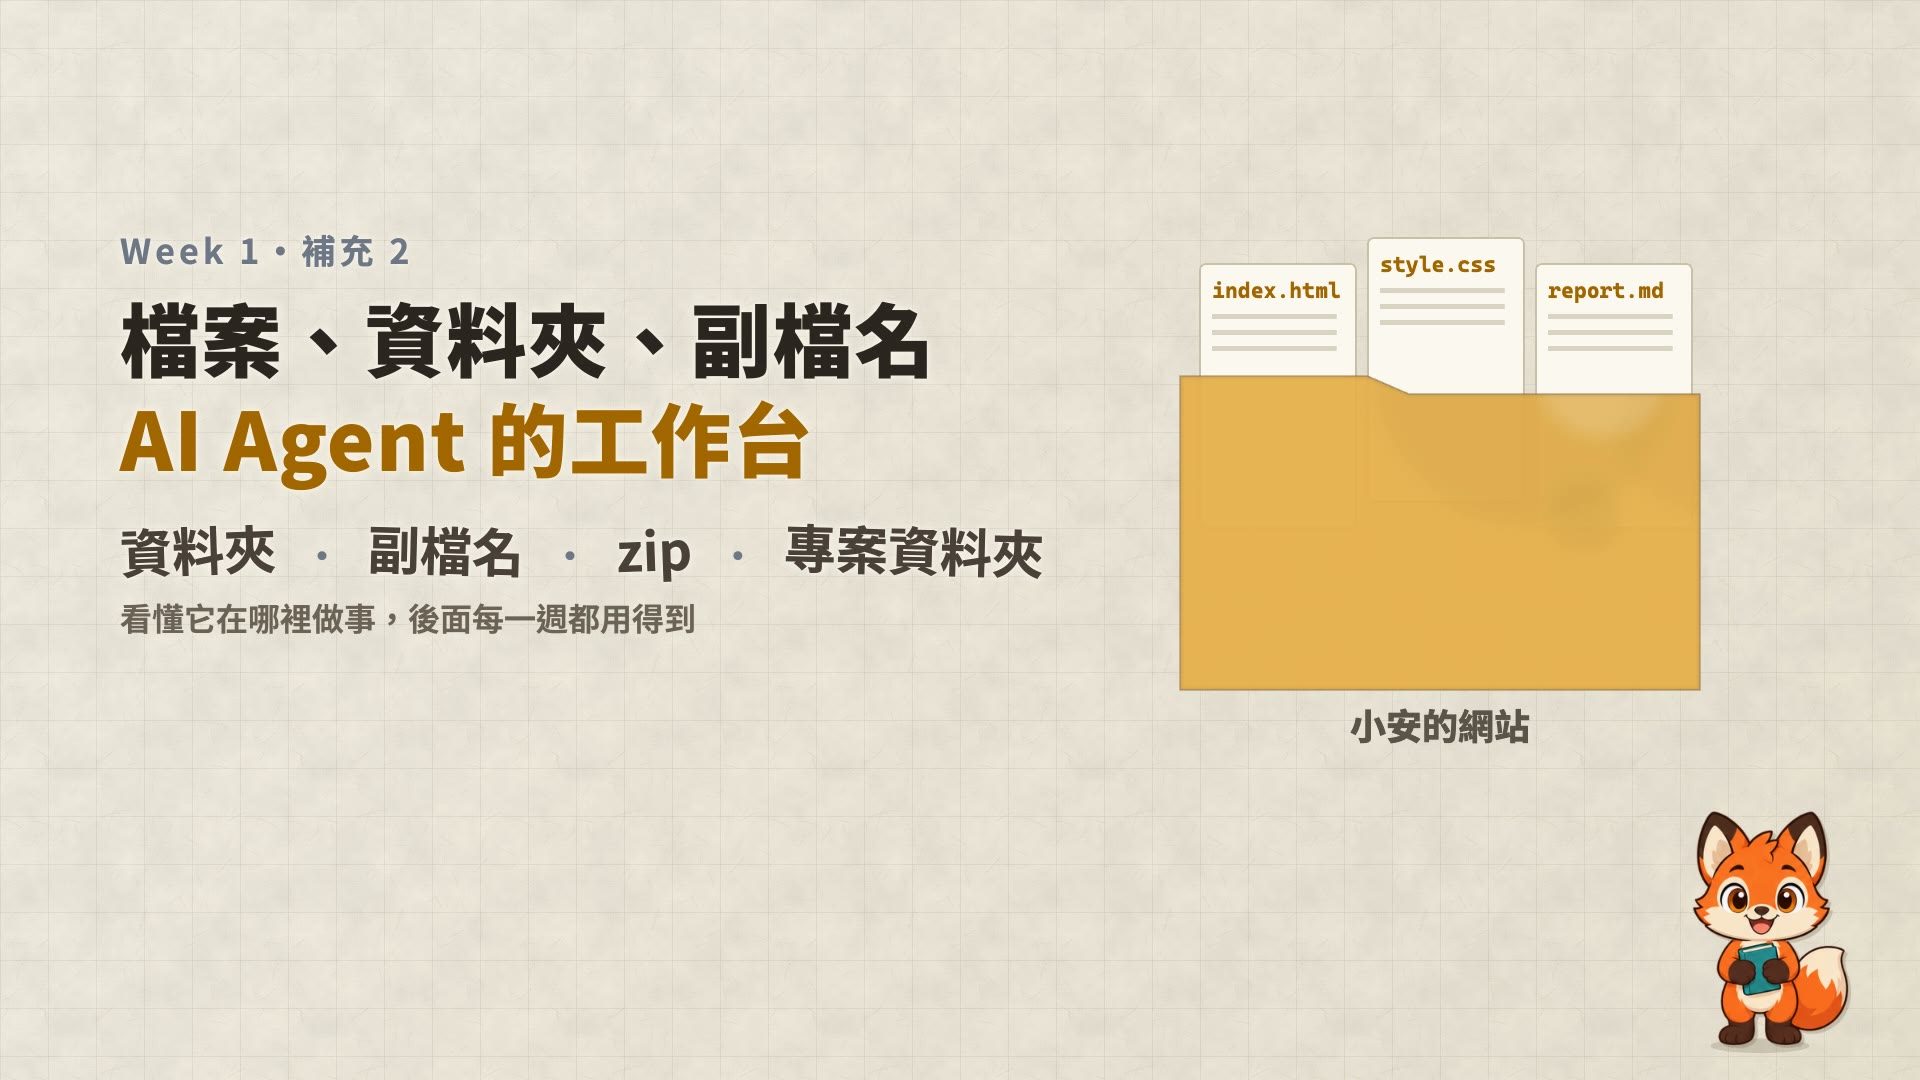
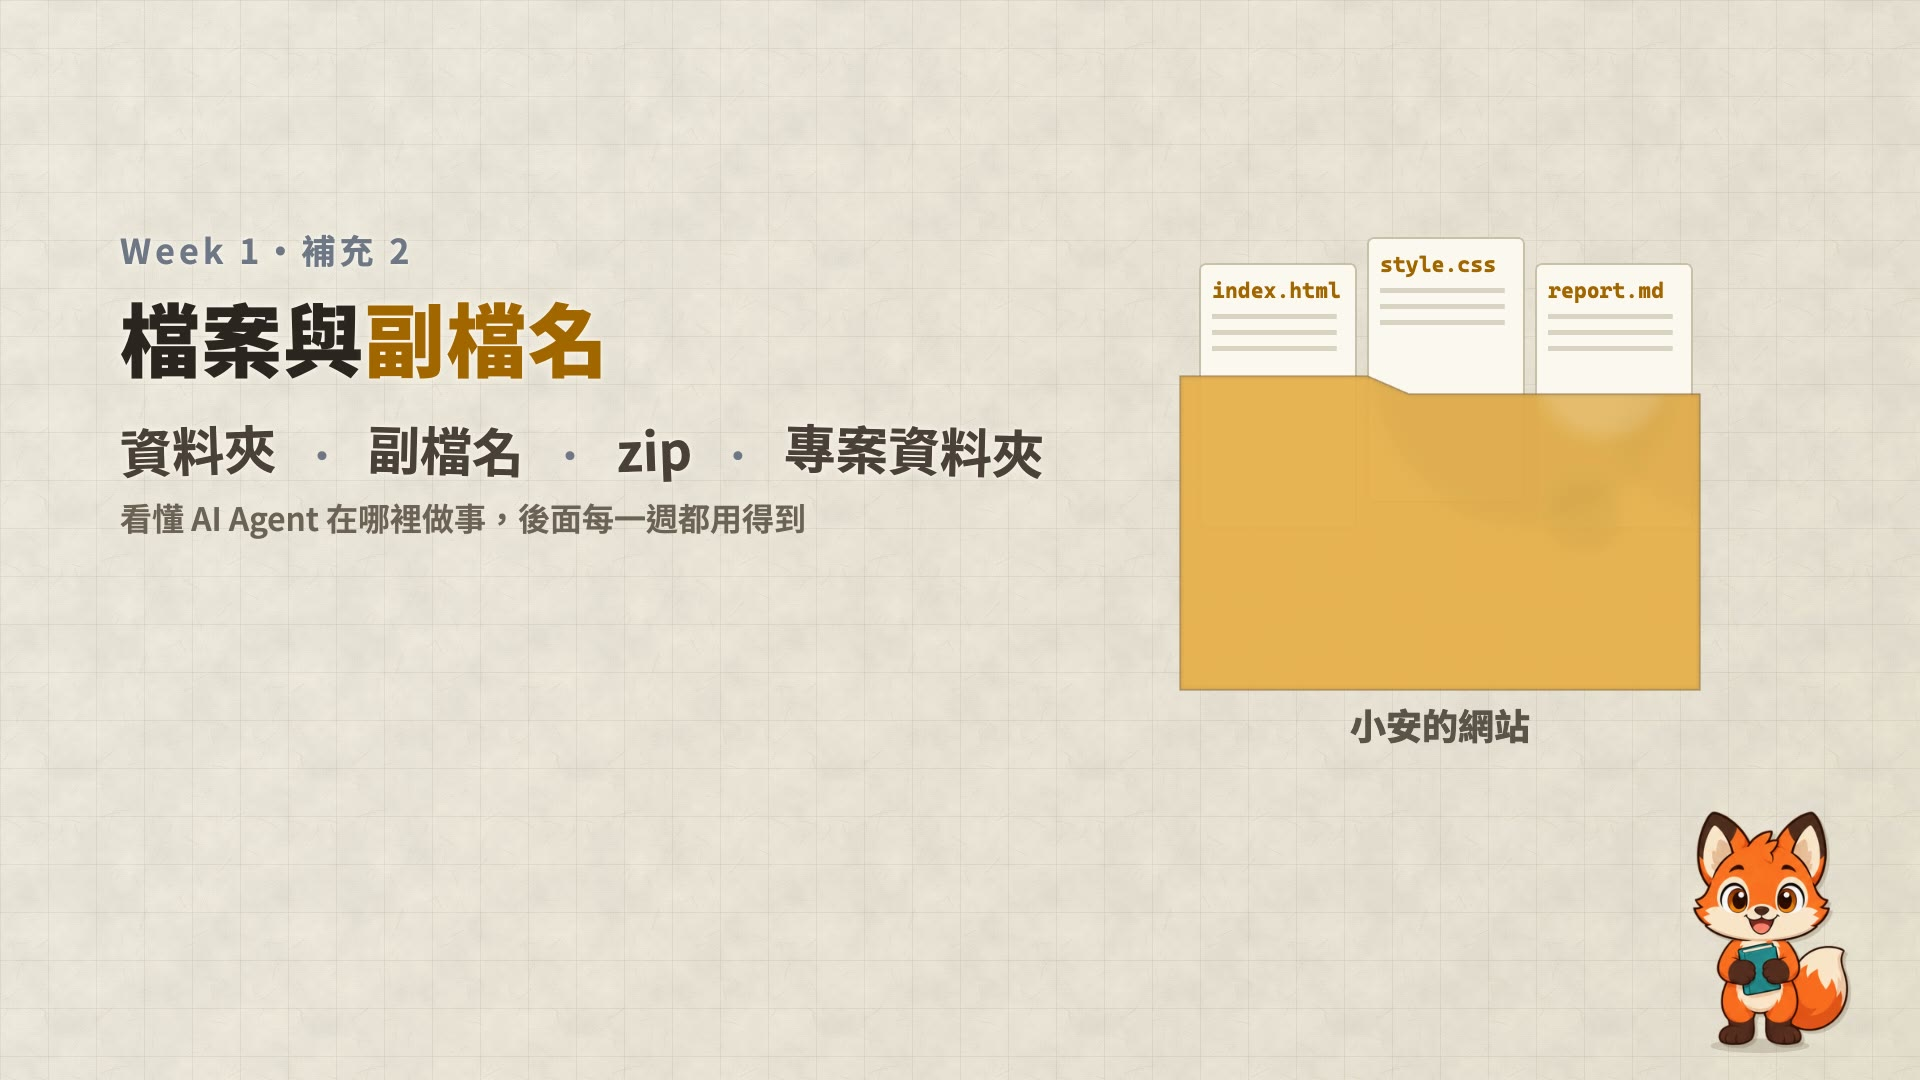
Week 1 supplements, round 2: clearer pencil lines, no Chinese-interface step, "檔案與副檔名"
Teacher's review: every pencil loop, line and arrow is thicker, and the ones
on dark VS Code screens use the bright red and amber (the 2:02 arrow was
graphite on a dark window). Supplement 1 no longer covers switching VS Code
to Chinese (now 2:05). Supplement 2 is renamed 「檔案與副檔名」 and its
0:15 arrow is red. Week 1: 3 videos + 2 extras, 9 min 49 s.

Changed region(s): [[0.0625, 0.275, 0.5625, 0.6111]]

diff --git a/weeks/week01/index.html b/weeks/week01/index.html
@@ -240,8 +240,8 @@
         <li><button type="button" data-t="36"><span class="k">00:36</span><span class="t" data-i18n data-zh-hans="Windows：用 Microsoft Store 装" data-en="Windows: install it through the Microsoft Store" data-vi="Windows: cài qua Microsoft Store">Windows：用 Microsoft Store 裝</span></button></li>
         <li><button type="button" data-t="53"><span class="k">00:53</span><span class="t" data-i18n data-zh-hans="登录、切到 Codex、开文件夹" data-en="Sign in, switch to Codex, open a folder" data-vi="Đăng nhập, chuyển sang Codex, mở thư mục">登入、切到 Codex、開資料夾</span></button></li>
         <li><button type="button" data-t="79"><span class="k">01:19</span><span class="t" data-i18n data-zh-hans="VS Code：下载、安装" data-en="VS Code: download and install" data-vi="VS Code: tải về và cài đặt">VS Code：下載、安裝</span></button></li>
-        <li><button type="button" data-t="100"><span class="k">01:40</span><span class="t" data-i18n data-zh-hans="中文界面、打开同一个文件夹" data-en="Chinese interface, open the same folder" data-vi="Giao diện tiếng Trung, mở cùng một thư mục">中文介面、打開同一個資料夾</span></button></li>
-        <li><button type="button" data-t="126"><span class="k">02:06</span><span class="t" data-i18n data-zh-hans="结尾" data-en="Wrap-up" data-vi="Kết">結尾</span></button></li>
+        <li><button type="button" data-t="100"><span class="k">01:40</span><span class="t" data-i18n data-zh-hans="打开同一个文件夹" data-en="Open the same folder" data-vi="Mở cùng một thư mục">打開同一個資料夾</span></button></li>
+        <li><button type="button" data-t="117"><span class="k">01:57</span><span class="t" data-i18n data-zh-hans="结尾" data-en="Wrap-up" data-vi="Kết">結尾</span></button></li>
       </ol>
 
       <ol class="points">
@@ -258,21 +258,21 @@
           data-en="&lt;strong&gt;Sign in, switch to Codex, open a folder.&lt;/strong&gt; Sign in with your ChatGPT account (the free plan can use Codex too, with less usage); switch to Codex in the top-left corner; add a project by opening a folder (first make 「我的第一個專案」 on the Desktop) and try asking “What is in this folder?”."
           data-vi="&lt;strong&gt;Đăng nhập, chuyển sang Codex, mở một thư mục.&lt;/strong&gt; Đăng nhập bằng tài khoản ChatGPT (gói miễn phí cũng dùng được Codex, lượng dùng ít hơn); ở góc trên bên trái chuyển sang Codex; thêm dự án bằng cách mở một thư mục (tạo sẵn 「我的第一個專案」 trên Desktop) rồi thử hỏi “Trong thư mục này có gì?”."><strong>登入、切到 Codex、開一個資料夾。</strong>用 ChatGPT 帳號登入（免費版也可以用 Codex，用量比較少）；左上角切到 Codex；新增專案時打開一個資料夾（先在桌面建好「我的第一個專案」），試著問一句「這個資料夾裡有什麼？」。</p></li>
         <li><p data-i18n
-          data-zh-hans="&lt;strong&gt;VS Code。&lt;/strong&gt;到 &lt;a href=&#x27;https://code.visualstudio.com/download&#x27;&gt;code.visualstudio.com&lt;/a&gt; 下载。Mac：一样拖进“应用程序”。Windows：安装时建议多勾两个“以 Code 打开”，之后在文件夹按右键就能用 VS Code 打开；其他照默认。想要中文界面：按 Cmd/Ctrl + Shift + P，输入 Configure Display Language，选中文，重新启动。"
-          data-en="&lt;strong&gt;VS Code.&lt;/strong&gt; Download it from &lt;a href=&#x27;https://code.visualstudio.com/download&#x27;&gt;code.visualstudio.com&lt;/a&gt;. Mac: drag it into Applications as well. Windows: during setup we suggest also ticking the two “Open with Code” options, so you can right-click a folder to open it in VS Code; leave the rest as default. For a Chinese interface, press Cmd/Ctrl + Shift + P, type Configure Display Language, pick Chinese (Traditional) and restart."
-          data-vi="&lt;strong&gt;VS Code.&lt;/strong&gt; Tải ở &lt;a href=&#x27;https://code.visualstudio.com/download&#x27;&gt;code.visualstudio.com&lt;/a&gt;. Mac: cũng kéo vào Applications. Windows: khi cài nên tick thêm hai mục “Open with Code”, sau này bấm chuột phải vào thư mục là mở được bằng VS Code; các mục khác để mặc định. Muốn đổi ngôn ngữ giao diện: bấm Cmd/Ctrl + Shift + P, gõ Configure Display Language, chọn ngôn ngữ rồi khởi động lại."><strong>VS Code。</strong>到 <a href='https://code.visualstudio.com/download'>code.visualstudio.com</a> 下載。Mac：一樣拖進「應用程式」。Windows：安裝時建議多勾兩個「以 Code 開啟」，之後在資料夾按右鍵就能用 VS Code 打開；其他照預設。想要中文介面：按 Cmd/Ctrl + Shift + P，輸入 Configure Display Language，選中文(繁體)，重新啟動。</p></li>
+          data-zh-hans="&lt;strong&gt;VS Code。&lt;/strong&gt;到 &lt;a href=&#x27;https://code.visualstudio.com/download&#x27;&gt;code.visualstudio.com&lt;/a&gt; 下载。Mac：一样拖进“应用程序”。Windows：安装时建议多勾两个“以 Code 打开”，之后在文件夹按右键就能用 VS Code 打开；其他照默认。"
+          data-en="&lt;strong&gt;VS Code.&lt;/strong&gt; Download it from &lt;a href=&#x27;https://code.visualstudio.com/download&#x27;&gt;code.visualstudio.com&lt;/a&gt;. Mac: drag it into Applications as well. Windows: during setup we suggest also ticking the two “Open with Code” options, so you can right-click a folder to open it in VS Code; leave the rest as default."
+          data-vi="&lt;strong&gt;VS Code.&lt;/strong&gt; Tải ở &lt;a href=&#x27;https://code.visualstudio.com/download&#x27;&gt;code.visualstudio.com&lt;/a&gt;. Mac: cũng kéo vào Applications. Windows: khi cài nên tick thêm hai mục “Open with Code”, sau này bấm chuột phải vào thư mục là mở được bằng VS Code; các mục khác để mặc định."><strong>VS Code。</strong>到 <a href='https://code.visualstudio.com/download'>code.visualstudio.com</a> 下載。Mac：一樣拖進「應用程式」。Windows：安裝時建議多勾兩個「以 Code 開啟」，之後在資料夾按右鍵就能用 VS Code 打開；其他照預設。</p></li>
         <li><p data-i18n
-          data-zh-hans="&lt;strong&gt;同一个文件夹。&lt;/strong&gt;把“我的第一个专案”拖进 VS Code（问你信不信任作者时，自己的文件夹选“是”）；请 Codex 建一个 &lt;code&gt;hello.md&lt;/code&gt;，VS Code 马上看得到：两个工具看的是同一个文件夹。"
+          data-zh-hans="&lt;strong&gt;同一个文件夹。&lt;/strong&gt;把“我的第一个专案”拖进 VS Code（问你信不信任作者时，自己的文件夹选“Yes”）；请 Codex 建一个 &lt;code&gt;hello.md&lt;/code&gt;，VS Code 马上看得到：两个工具看的是同一个文件夹。"
           data-en="&lt;strong&gt;The same folder.&lt;/strong&gt; Drag 「我的第一個專案」 into VS Code (when it asks whether you trust the authors, choose yes for your own folder); ask Codex to create &lt;code&gt;hello.md&lt;/code&gt; and VS Code shows it at once: both tools look at the same folder."
-          data-vi="&lt;strong&gt;Cùng một thư mục.&lt;/strong&gt; Kéo 「我的第一個專案」 vào VS Code (khi hỏi có tin tác giả không, thư mục của chính bạn thì chọn có); nhờ Codex tạo &lt;code&gt;hello.md&lt;/code&gt;, VS Code thấy ngay: hai công cụ cùng nhìn một thư mục."><strong>同一個資料夾。</strong>把「我的第一個專案」拖進 VS Code（問你信不信任作者時，自己的資料夾選「是」）；請 Codex 建一個 <code>hello.md</code>，VS Code 馬上看得到：兩個工具看的是同一個資料夾。</p></li>
+          data-vi="&lt;strong&gt;Cùng một thư mục.&lt;/strong&gt; Kéo 「我的第一個專案」 vào VS Code (khi hỏi có tin tác giả không, thư mục của chính bạn thì chọn có); nhờ Codex tạo &lt;code&gt;hello.md&lt;/code&gt;, VS Code thấy ngay: hai công cụ cùng nhìn một thư mục."><strong>同一個資料夾。</strong>把「我的第一個專案」拖進 VS Code（問你信不信任作者時，自己的資料夾選「Yes」）；請 Codex 建一個 <code>hello.md</code>，VS Code 馬上看得到：兩個工具看的是同一個資料夾。</p></li>
       </ol>
     </section>
 
     <section class="unit unit-supp" id="s2-files" aria-labelledby="us2-title">
       <h2 class="unit-title" id="us2-title"><span class="unit-num" data-ui="video.supp" data-n="2">補充 2</span><span data-i18n
-        data-zh-hans="文件、文件夹、扩展名：AI Agent 的工作台"
-        data-en="Files, Folders and Extensions: Where an AI Agent Works"
-        data-vi="Tệp, thư mục, phần mở rộng: bàn làm việc của AI Agent">檔案、資料夾、副檔名：AI Agent 的工作台</span></h2>
+        data-zh-hans="文件与扩展名"
+        data-en="Files and File Extensions"
+        data-vi="Tệp và phần mở rộng">檔案與副檔名</span></h2>
 
       <div class="film">
         <div class="player">

diff --git a/assets/course.js b/assets/course.js
@@ -31,22 +31,22 @@
       href: "weeks/week01/",
       thumb: "weeks/week01/video/01-agent-literacy/thumb.jpg",
       still: "weeks/week01/video/01-agent-literacy/poster.jpg",
-      meta: "3 支影片＋2 支補充・共 9 分 58 秒",
+      meta: "3 支影片＋2 支補充・共 9 分 49 秒",
       i18n: {
         "zh-Hans": {
           title: "为什么要学 AI Agent Literacy",
           summary: "AI 从聊天走到做事：这门课练的是带 AI 做事的素养，你给方向、设界线、验收，AI 动手做。再看这门课怎么上：Codex 桌面版＋VS Code、很多动手任务、评分看过程、卡住了照三步自学、用母语就好。最后是 AI Agent 初次体验：交代、看它做、验收、请它修，成品就在你的电脑里。",
-          meta: "3 个视频＋2 个补充・共 9 分 58 秒",
+          meta: "3 个视频＋2 个补充・共 9 分 49 秒",
         },
         en: {
           title: "Why Learn AI Agent Literacy",
           summary: "AI has moved from chatting to doing: this course trains the literacy of leading AI to do the work, where you give direction, set limits and check the result. Then how the course runs: the Codex desktop app plus VS Code, lots of hands-on work graded on the process, three steps when you are stuck, and your own language is fine. Finally, a first run with an AI agent: instruct, watch it work, check, ask for fixes, and the result is on your computer.",
-          meta: "3 videos + 2 extras · 9 min 58 s in total",
+          meta: "3 videos + 2 extras · 9 min 49 s in total",
         },
         vi: {
           title: "Vì sao cần học AI Agent Literacy",
           summary: "AI đã chuyển từ trò chuyện sang làm việc: môn học này luyện năng lực dẫn AI làm việc, bạn định hướng, đặt giới hạn, nghiệm thu, còn AI tự tay làm. Tiếp theo là cách học môn này: Codex bản desktop cùng VS Code, nhiều bài thực hành chấm theo quá trình, bị kẹt thì theo ba bước, dùng tiếng mẹ đẻ là được. Cuối cùng là lần đầu dùng thử AI Agent: dặn việc, xem nó làm, nghiệm thu, nhờ sửa, thành phẩm nằm ngay trong máy bạn.",
-          meta: "3 video + 2 bổ sung · tổng cộng 9 phút 58 giây",
+          meta: "3 video + 2 bổ sung · tổng cộng 9 phút 49 giây",
         },
       },
     },
